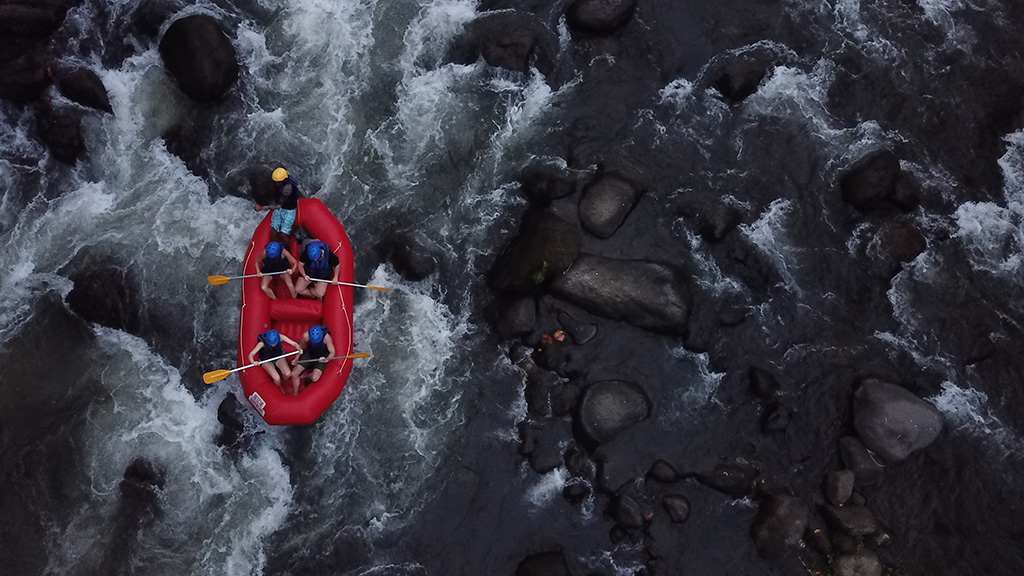
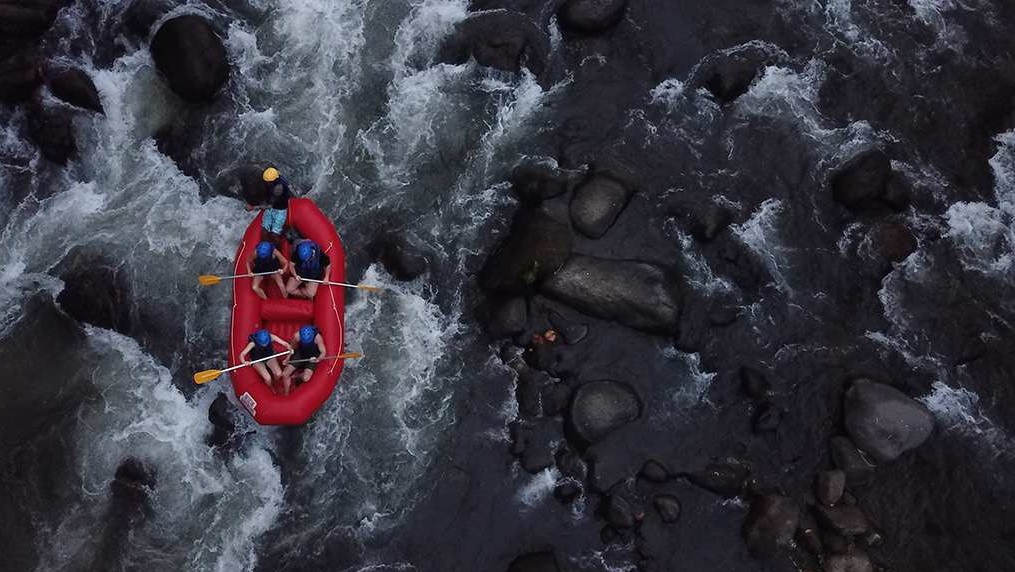
Refactor code structure for improved readability and maintainability

diff --git a/wwr/styles/rafting.css b/wwr/styles/rafting.css
@@ -1,26 +1,7 @@
-:root {
-    --primary-color: #fff;
-    --secondary-color: #b4a497;
-    --accent1-color: #264653;
-    --accent2-color: #b7a474;
-    --heading-font: "Times New Roman", "Georgia", serif;
-    --body-font: 'Segoe UI', Tahoma, Geneva, sans-serif;
-}
-
-header {
-    background-color: var(--primary-color);
-    color: var(--accent2-color);
-}
-
 * {
     margin: 0;
     padding: 0;
     box-sizing: border-box;
-}
-
-body {
-    font-family: var(--body-font);
-    color: var(--accent1-color);
 }
 
 header,
@@ -28,16 +9,6 @@ main,
 footer {
     width: 840px;
     margin: 0 auto;
-}
-
-h1,
-h2 {
-    font-family: var(--heading-font);
-    color: var(--primary-color);
-}
-
-h2 {
-    color: var(--accent1-color)
 }
 
 nav,
@@ -48,18 +19,19 @@ article {
     padding: 8px;
 }
 
-.socialmedia a {
-    text-decoration: none;
+:root {
+    --primary-color: #fff;
+    --secondary-color: #b4a497;
+    --accent1-color: #264653;
+    --accent2-color: #b7a474;
+    --heading-font: "Times New Roman", "Georgia", serif;
+    --body-font: 'Segoe UI', Tahoma, Geneva, sans-serif;
 }
 
-.hero {
-    position: relative;
-}
-
-.hero img {
-    display: block;
-    width: 100%;
-    height: auto;
+h1,
+h2 {
+    font-family: var(--heading-font);
+    color: var(--primary-color);
 }
 
 h1 {
@@ -73,15 +45,118 @@ h1 {
     color: white;
 }
 
+h2 {
+    color: var(--accent1-color)
+}
+
+header {
+    background-color: var(--accent1-color);
+    display: grid;
+    grid-template-columns: 200px 1fr;
+    align-items: center;
+    padding: 10px 20px;
+    border: 1px solid #ccc;
+    border-bottom: 1px solid var(--accent2-color);
+    border-top: var(--accent2-color);
+}
+
+header img {
+    width: 150px;
+    height: auto;
+}
+
+nav {
+    display: flex;
+    justify-content: space-evenly;
+    background-color: var(--accent1-color);
+    border: 1px solid #000;
+}
+
+nav a {
+    display: block;
+    padding: 10px;
+    text-decoration: none;
+    color: var(--accent2-color);
+    font-weight: 700;
+}
+
+nav a:last-child {
+    border-right: none;
+}
+
+nav ul {
+    display: flex;
+    list-style: none;
+    justify-content: space-evenly;
+    background-color: var(--primary-color);
+    border: 1px solid var(--accent1-color);
+}
+
+nav ul li {
+    flex: 1;
+    text-align: center;
+    border-right: 1px solid #ccc;
+}
+
+nav ul li:last-child {
+    border-right: none;
+}
+
+body {
+    font-family: var(--body-font);
+    color: var(--accent1-color);
+    max-width: 840px;
+    margin: 0 auto;
+}
+
+.hero {
+    position: relative;
+    top: .1px;
+    left: .1px;
+    right: .1px;
+    bottom: .1px;
+    width: 97.5%;
+    padding: 10px;
+    margin: 30px 0;
+}
+
+.hero img {
+    display: block;
+    width: 103%;
+    height: auto;
+}
+
+.hero h1 {
+    position: absolute;
+    top: 20px;
+    width: 100%;
+    text-align: center;
+    background-color: rgba(27, 73, 101, 0.8);
+    color: white;
+    padding: 10px;
+}
+
 .hero article {
     position: absolute;
-    bottom: 25px;
-    right: 25px;
-    width: 55%;
+    bottom: 20px;
+    left: 20px;
+    right: 20px;
     background: var(--secondary-color);
-    padding: 1rem 1.25rem;
+    padding: 15px;
+    display: flex;
+    flex-direction: row-reverse;
+    align-items: center;
+    gap: 15px;
     border: 1px solid rgba(0, 0, 0, 0.1);
     box-shadow: var(--accent2-color);
+}
+
+.hero article img {
+    float: right;
+    width: 120px;
+    margin: 0 0 0.75rem 1rem;
+    border-radius: 6px;
+    flex-shrink: 0;
 }
 
 article {
@@ -109,9 +184,94 @@ article img {
     display: block;
 }
 
-.hero article img {
-    float: right;
-    width: 125px;
-    margin: 0 0 0.75rem 1rem;
-    border-radius: 6px;
+.history {
+    margin: 30px 0;
+    border: 1px solid #ccc;
+    padding: 15px;
+    background-color: var(--accent1-color);
+}
+
+.history h2 {
+    text-align: center;
+    background-color: var(--primary-color);
+    color: var(--accent1-color);
+    padding: 5px;
+    margin-bottom: 15px;
+}
+
+.history-grid {
+    display: grid;
+    grid-template-columns: 1fr 200px 1fr;
+    gap: 20px;
+    align-items: center;
+    color: var(--secondary-color);
+}
+
+.history-grid img {
+    width: 100%;
+    height: auto;
+    background-color: #1b4965;
+}
+
+.adventure {
+    margin: 30px 0;
+    border: 1px solid #ccc;
+    padding: 15px;
+    background-color: var(--secondary-color);
+}
+
+.adventure h2 {
+    text-align: center;
+    margin-bottom: 15px;
+}
+
+.adventure-grid {
+    display: flex;
+    justify-content: space-between;
+    gap: 10px;
+}
+
+.adventure-grid figure {
+    flex: 1;
+    text-align: center;
+}
+
+.adventure-grid img {
+    width: 100%;
+    height: auto;
+}
+
+.adventure-grid figcaption {
+    margin-top: 8px;
+    font-size: 0.9rem;
+    font-weight: 600;
+}
+
+footer {
+    display: flex;
+    justify-content: space-between;
+    align-items: center;
+    background-color: var(--secondary-color);
+    padding: 15px 20px;
+    margin-top: 20px;
+}
+
+footer p {
+    flex: 1;
+    text-align: center;
+}
+
+.socialmedia {
+    display: flex;
+    gap: 10px;
+    justify-content: flex-end;
+}
+
+.socialmedia a {
+    text-decoration: none;
+}
+
+.socialmedia img {
+    width: 40px;
+    height: 40px;
 }

diff --git a/wwr/about.html b/wwr/about.html
@@ -24,7 +24,6 @@
         </nav>
     </header>
 
-
     <main>
         <div class="hero">
             <img src="images/herowwr.jpg" alt="Rafting site">
@@ -36,26 +35,59 @@
                     guides ensure every trip is
                     safe, fun, and full of energy.
 
-                    Join us on the river...where every horizon brings a new challenge, a new memory,
+                    Join us on the river—where every horizon brings a new challenge, a new memory,
                     and a new story to
                     tell.</p>
             </article>
         </div>
-        <section>
+
+        <section class="history">
             <h2>History</h2>
-            <p>Whitewater Horizons began with a simple idea: to share the thrill of the river with
-                everyone who
-                craves adventure. Founded by outdoor enthusiasts who believed that rafting is more
-                than just a
-                sport—it is a way to connect with nature and with each other.</p>
+            <div class="history-grid">
+                <p>Whitewater Horizons began with a simple idea: to share the thrill of the river
+                    with
+                    everyone who
+                    craves adventure. Founded by outdoor enthusiasts who believed that rafting is
+                    more
+                    than just a
+                    sport—it is a way to connect with nature and with each other.</p>
+                <img src="images/history.jpg" alt="History - Rafting">
+                <p>From our humble beginnings with one raft and a passion for the outdoors, we have
+                    grown into a
+                    premier rafting company dedicated to providing safe, exciting, and memorable
+                    experiences for
+                    families, friends, and adventure seekers of all levels.</p>
+            </div>
         </section>
-        <section>
+        <section class="adventure">
             <h2> Adventure Awaits You!</h2>
+            <div class="adventure-grid">
+                <figure>
+                    <img src="images/adventure1.jpg" alt="Enjoy the Rushing Rapids">
+                    <figcaption>Enjoy the Rushing Rapids</figcaption>
+                </figure>
+                <figure>
+                    <img src="images/adventure2.jpg" alt="Dive into the Wild">
+                    <figcaption>Dive into the Wild</figcaption>
+                </figure>
+                <figure>
+                    <img src="images/adventure3.jpg" alt="Experience Nature’s Challenge">
+                    <figcaption>Experience Nature’s Challenge</figcaption>
+                </figure>
+                <figure>
+                    <img src="images/adventure4.jpg" alt="Escape the Ordinary">
+                    <figcaption>Escape the Ordinary</figcaption>
+                </figure>
+                <figure>
+                    <img src="images/adventure5.jpg" alt="Your Journey begins here">
+                    <figcaption>Your Journey begins here...</figcaption>
+                </figure>
+            </div>
         </section>
     </main>
 
     <footer>
-        <p>© | 2026| White Water Horizons | Angel Chizaram</p>
+        <p>© | 2026| White Water Horizons | Angel Chizaram</p>
         <nav class="socialmedia">
             <a href="https://facebook.com">
                 <img src="images/facebookbw.svg" alt="Facebook Icon" width="50">
